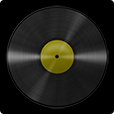
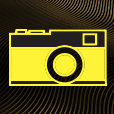
Push gap

diff --git a/index-dev.html b/index-dev.html
@@ -25,8 +25,7 @@
 			<div class='overlay'></div>
 			<div class='panel' id='panelIntro'>
 		
-				<!--<img src='res/TITLE.png' style='position: absolute;left: 0;top: 50%;-webkit-transform: translateY(-50%);width: 100%;'>-->
-				
+				<img src='res/1.png' style='position: absolute;left: 0;top: 0;'>				
 				<p class='desc'>Hãy cùng khám phá phong cách của bạn qua sự lựa chọn ngẫu nhiên dựa trên sở thích của bạn</p>
 				
 			</div>
@@ -147,7 +146,7 @@
 					<div ontouchstart='thankState()' class='confirmButton' style='left:55px;top:128px;'></div>
 					<div ontouchstart='sendState()' class='confirmButton' style='left:370px;top:128px;'></div>
 				</div>
-		    </div>
+			</div>
 			
 			<div class='panel' id='panelSend'>
 				<div class='formSend'>

diff --git a/index.html b/index.html
@@ -18,8 +18,7 @@
 			<div class='overlay'></div>
 			<div class='panel' id='panelIntro'>
 		
-				<!--<img src='res/TITLE.png' style='position: absolute;left: 0;top: 50%;-webkit-transform: translateY(-50%);width: 100%;'>-->
-				
+				<img src='res/1.png' style='position: absolute;left: 0;top: 0;'>				
 				<p class='desc'>Hãy cùng khám phá phong cách của bạn qua sự lựa chọn ngẫu nhiên dựa trên sở thích của bạn</p>
 				
 			</div>

diff --git a/game.js b/game.js
@@ -325,7 +325,8 @@ function nextState(){
     }
     
     if (currentId == 7) {
-        $('.buttonNext').hide();        
+        $('.buttonNext').hide();
+        nextState();
     }     
         
 
@@ -387,7 +388,8 @@ function thankState() {
 }
 
 function confirmState(){
-    gotoScene("#panelConfirm");
+    //gotoScene("#panelConfirm");
+    nextState();
 }
 
 function gotoScene(id) {

diff --git a/css.css b/css.css
@@ -302,9 +302,12 @@ input{
 .desc{
     text-align: center;
     margin: auto;
-    margin-top: 560px;
+    margin-top: 620px;
+    margin-left: 150px;
     font-size: 30px;
     width: 720px;
+    position: absolute;
+    top: 0;
 }
 
 .styleTextGOD{
